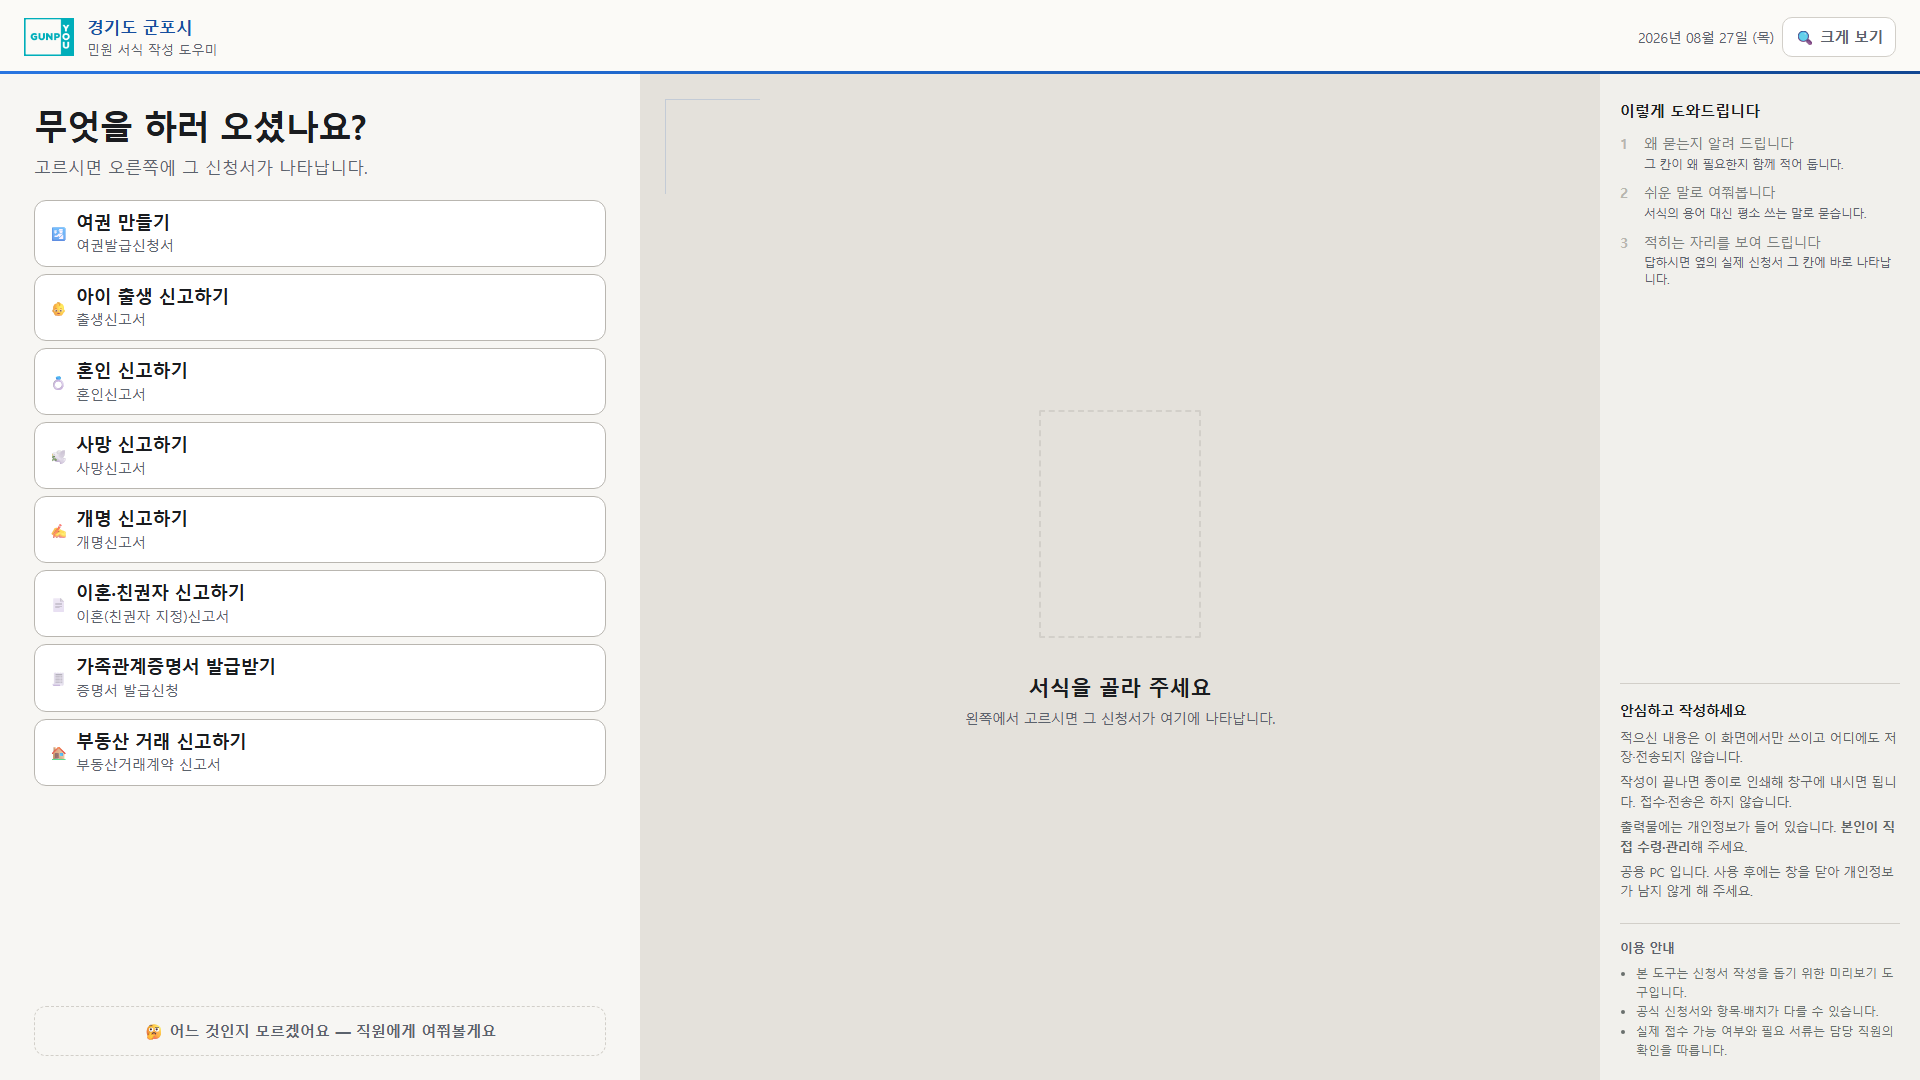
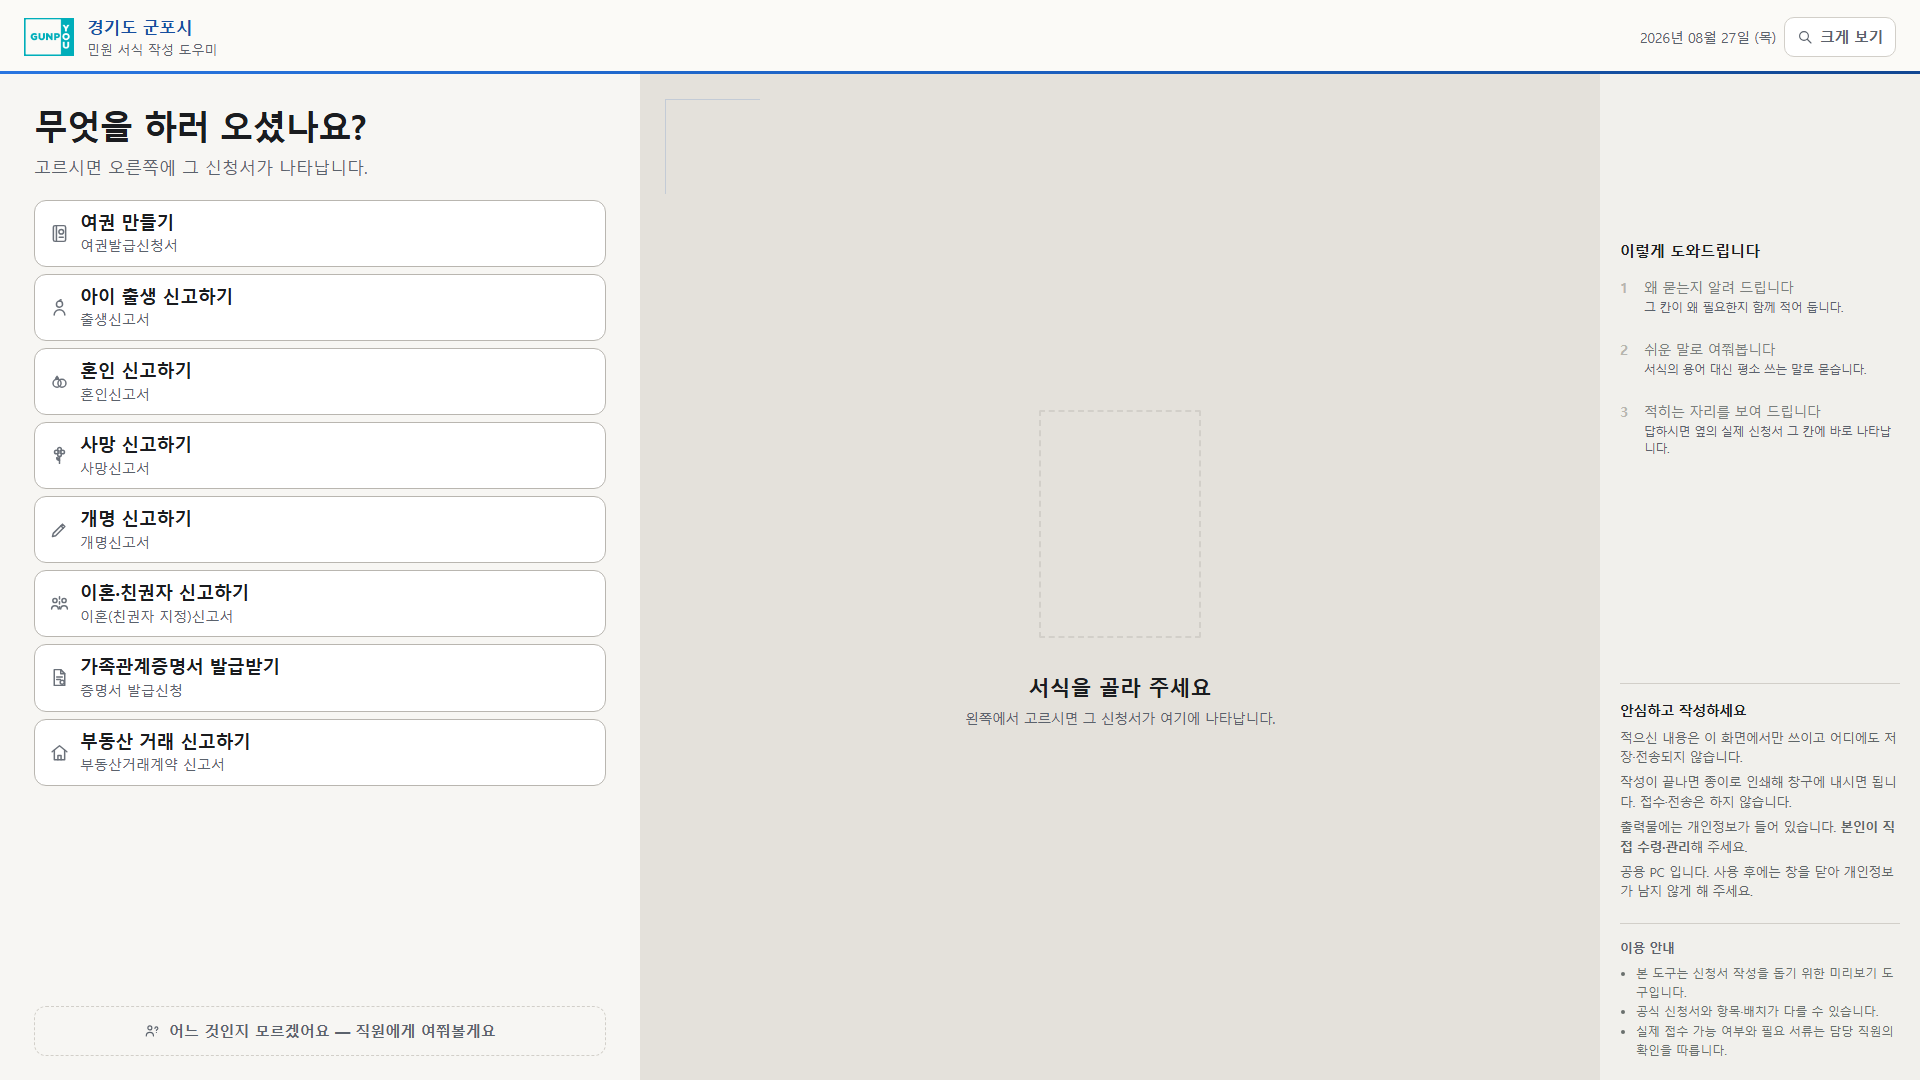
docs: 결정 ⑯ 아이콘 신설 · ③에 「그 뒤에 한 번 더」 · 동결본 갱신
- UX_DECISIONS ⑯ — 왜 이모지를 쓰지 않는가. 검토한 대안 넷(그대로 둠·아이콘 폰트·
  아이콘 없앰·서식별 색)과 버린 이유, 재검토 조건까지
- UX_DECISIONS ③ — 실루엣을 「채워지게」 만든 경위를 덧붙였다.
  ⛔ Generic Paper 를 되살린 것이 아님을 못 박았다
- docs/history/2026.08.27-Main재설계/ — After 4장을 **지금 화면으로 다시 동결**.
  어제 동결한 그림이 오늘 화면과 달라졌다(동결본은 갱신하지 않으면 곧 거짓이 된다)

확인: 코드 무변경 · 링크·앵커 전수 검사 통과

diff --git a/docs/UX_DECISIONS.md b/docs/UX_DECISIONS.md
@@ -42,6 +42,7 @@
 | [⑬](#d13) | 화면 키보드를 쓰지 않는다 | 구현됨 |
 | [⑭](#d14) | 개인정보는 구조와 동작으로 · **못 하는 것은 못 한다고 적는다** | 구현됨 |
 | [⑮](#d15) | 카탈로그를 한 곳에 둔다 · 검색은 20종부터 | 구현됨 |
+| [⑯](#d16) | 아이콘은 **이모지가 아니라 단색 선 아이콘 한 벌** | 구현됨 |
 
 ---
 
@@ -162,8 +163,8 @@
 | 언제 | 종이 |
 |---|---|
 | 아무것도 안 고름 | 빈 윤곽 + 「서식을 골라 주세요」 |
-| **시연 중** | **실루엣** — 서식 이름 + 항목 줄. 줄이 하나씩 그어진다 |
-| **hover · 키보드 포커스** | **실루엣** — 정지. 줄은 비어 있다 |
+| **시연 중** | **실루엣** — 서식 이름 + **그 서식이 묻는 항목**. 값이 한 줄씩 채워진다 |
+| **hover · 키보드 포커스** | **실루엣** — 정지. 항목만 서 있고 값은 비어 있다 |
 | **고름**(카드 펼침) | **실제 서식**, 흰 베일 한 겹으로 살짝 흐리게 |
 | **작성(Writing)** | 실제 서식, 또렷 |
 
@@ -179,6 +180,22 @@
 - 실루엣이 「고장난 화면」으로 읽힌다는 관찰이 있을 때
 - 시민이 hover 단계에서 이미 서식 내용을 확인하고 싶어 한다는 관찰이 있을 때
 - 모션·시각 값이 확정되어(외부 검토 중) 베일 농도·전환 시간이 바뀔 때
+
+### 그 뒤에 한 번 더 — 실루엣이 **채워지게** 했다 (2026.08.27)
+
+처음 만든 실루엣은 **추상적인 줄**만 그어졌습니다. 조용하기는 했지만 「여기서 무엇을
+할 수 있는가」를 말하지 못했고, 지나가는 사람이 멈춰 설 이유가 없었습니다.
+
+지금은 **그 서식이 실제로 묻는 항목**이 왼쪽에 서고, 오른쪽 칸에 **값이 한 줄씩** 채워집니다.
+이 화면의 한 문장이 눈앞에서 일어납니다 — **「질문에 답하면, 신청서가 완성됩니다.」**
+
+- ⚠ 값은 **전부 가상 인물**이고 종이 아래에 **「작성 예시입니다」**라고 적습니다.
+  앞사람 개인정보가 남아 있는 것처럼 보이면 이 제품의 가장 큰 강점이 그 자리에서 무너집니다.
+- ⚠ 주민등록번호 뒷자리는 **가상값이라도 가립니다**(`900101-●●●●●●●`).
+  늘 켜져 있는 화면에 숫자 13자리가 통째로 떠 있는 그림 자체를 만들지 않습니다.
+- ⚠ 한 카드에 머무는 시간을 **1.8초 → 2.8초**로 늘렸습니다. 읽을 것이 생겼기 때문입니다.
+- ⛔ 폐기한 **Generic Paper**(가상의 ○○○신청서)를 되살린 것이 아닙니다. 이것은 **실제 8종
+  각각의 항목**이고, 종이는 여전히 실루엣입니다(실제 서식 그림은 「고른 것」에만).
 
 > ⚠ 「Main 에서 hover 하면 **실제 신청서 Preview** 가 뜬다」는 것이 **2026.08.25 까지의
 > 설계 방향**이었습니다. 위 이유로 2026.08.27 에 정정됐습니다.
@@ -644,3 +661,46 @@ href                           그 서식 HTML
 - 8종 서식 쪽에서도 카탈로그를 읽어야 할 일이 생길 때 → 그때 복제 방식을 다시 검토합니다.
 
 > 근거 · `index.html` `<!--FORM-CATALOG v1-->` · 구조동결 §10
+
+---
+
+<a id="d16"></a>
+
+## ⑯ 아이콘은 이모지가 아니라 단색 선 아이콘 한 벌
+
+**[문제/배경]**
+서식 카드 8장과 상단 바 단추의 아이콘이 **전부 이모지**였습니다(🛂 👶 💍 🕊 ✍ 📄 🧾 🏠 🔍 🤔).
+아이콘 폰트·SVG 세트를 받아 올 수 없는 **오프라인** 환경이라 그렇게 시작했습니다.
+
+**[검토한 대안]**
+
+| 안 | 왜 버렸나 |
+|---|---|
+| 이모지를 그대로 둔다 | ① OS·글꼴에 따라 **모양이 달라진다** — 배포본 하나를 여러 기관이 쓰는데 화면이 갈립니다<br>② **여러 색을 쓴다** — 목록 8장에 8가지 색이 박혀 있었습니다 |
+| 아이콘 폰트(Material·Font Awesome 등) | 설치·CDN 이 필요합니다. **오프라인에서 못 씁니다** |
+| 아이콘을 아예 없앤다 | 목록을 훑을 때 형태가 주는 단서를 잃습니다. 고령자에게 글자만 있는 목록은 더 어렵습니다 |
+| 서식 종류별로 색을 달리한 아이콘 | 대표색이 기관마다 바뀌는데 8가지 색을 따로 두면 **색 체계가 두 벌**이 됩니다 |
+
+**[최종 결정]**
+**인라인 SVG 선 아이콘 한 벌**을 코드 안에 직접 둡니다.
+
+- **같은 문법** — 24 격자 · 굵기 1.7 · 둥근 끝. 하나만 달라도 한 벌로 안 보입니다
+- **`currentColor`** — 평소에는 **잉크색**(무채색)을 따르고, hover·포커스·**고른 카드**에서만
+  대표색이 됩니다. 그때는 색이 **「골라짐」이라는 뜻**을 가집니다
+- 카탈로그의 `icon`(이모지)은 **대비책으로 남겨** 둡니다 — 아이콘이 없는 서식이 생기면 그것으로 물러납니다
+
+**[결정 이유]**
+철학 §15 는 **색마다 하나의 역할**을 주고 §1 은 장식 목적의 여러 색을 금합니다.
+이모지는 그 두 가지를 동시에 어깁니다 — 게다가 같은 배포본이 기관마다 다르게 보입니다.
+단색 선 아이콘은 **오프라인 제약을 지키면서** 색 체계를 하나로 유지합니다.
+
+> ⚠ **사망·이혼은 감정이 실리는 민원입니다.** 상징을 세게 쓰지 않았습니다 —
+> 십자가·비둘기·깨진 하트 대신 **국화 한 송이**와 **담담한 두 사람**으로 두었습니다.
+
+**[향후 재검토 조건]**
+- 외부 시각 검토에서 **더 나은 한 벌**을 받았을 때 → 통째로 갈아 끼웁니다.
+  ⛔ 한두 개만 바꾸지 마십시오. 한 벌이 아니게 됩니다
+- 서식이 늘어 아이콘이 20개를 넘을 때 → 그때는 세트를 파일로 분리할지 다시 봅니다
+
+> 근거 · `index.html` 의 `ICONS` · `passport-helper-v1.html` 의 `.btn-ic` ·
+> `CHANGELOG.md` 2026.08.27

diff --git a/docs/history/2026.08.27-Main재설계/caption.md b/docs/history/2026.08.27-Main재설계/caption.md
@@ -4,7 +4,7 @@
 |---|---|
 | **날짜** | 2026.08.25(재설계) · 2026.08.27(종이 네 단) |
 | **상태** | 정식 서비스 준비 · 시범운영 중 |
-| **무엇이 바뀌었나** | 첫 화면을 **행정 분류 카드 격자**에서 **세 영역(ASK/PAPER/RAIL)**으로. 대기 화면·Start 화면을 만들지 않고 **첫 화면 하나**가 시연·선택·사전안내를 모두 맡는다 |
+| **무엇이 바뀌었나** | 첫 화면을 **행정 분류 카드 격자**에서 **세 영역(ASK/PAPER/RAIL)**으로. 대기 화면·Start 화면을 만들지 않고 **첫 화면 하나**가 시연·선택·사전안내를 모두 맡는다. 아이콘을 이모지에서 **단색 선 아이콘 한 벌**로 |
 | **왜 바뀌었나** | 첫 화면과 다음 화면(여권)이 **다른 프로그램처럼** 보였고, 시민이 「가족관계등록 신고」와 「증명서 발급」의 차이를 알아야 첫 걸음을 뗄 수 있었다 → [UX_DECISIONS](../../UX_DECISIONS.md) ①②③④⑨ |
 
 > ⚠ **이 폴더의 그림은 동결본입니다.** `tools/design-shots.py` 가 건드리지 않습니다.
@@ -18,7 +18,7 @@
 |---|---|
 | `01-before-첫화면.png` | **재설계 이전.** 행정 분류 4구역 · 「이용 가능」 배지 · `max-width:1080px` 가운데 정렬 · 빨간 띠 개인정보 안내<br>⚙ `git show 9c8612a:"docs/디자인검토/shots/hub-01-첫화면.png"` 에서 꺼냈습니다 |
 | `02-after-첫화면.png` | **지금.** 세 영역 · 시민의 말 카드 8장 · **아무것도 골라져 있지 않고** 종이 자리에 「서식을 골라 주세요」 |
-| `03-after-시연.png` | **대기 시연.** 카드를 하나씩 짚으며 종이의 **실루엣**에 줄을 그어 간다. ⛔ 실제 서식이 아니다 |
+| `03-after-시연.png` | **대기 시연.** 카드를 하나씩 짚으며 종이의 **실루엣**을 한 줄씩 채워 간다 — 항목 이름과 값이 눈앞에서 들어찬다. ⛔ 실제 서식 그림이 아니고, 값은 전부 가상 인물이다 |
 | `04-after-카드펼침.png` | 카드를 눌러 **그 자리에서 펼쳐진** 상태. 설명·준비물·[작성 시작]. 이때 비로소 **실제 서식**이 오되 흰 베일로 살짝 흐리다 |
 | `05-after-첫화면-세로.png` | 같은 화면, 세로형 키오스크(1080×1920) |
 
@@ -57,6 +57,8 @@ hero      "어떤 서식을 작성하시나요?"
 | 행정 분류를 걷어내고 **시민의 말 카드**를 평평하게 | ① |
 | 첫 화면도 **세 영역**으로 — 가운데는 **종이** | ② |
 | **선명도가 곧 확정의 단계** — 실제 서식은 고른 것에만 | ③ |
+| 시연 중 종이가 **실제로 채워진다** — 「질문에 답하면 신청서가 완성됩니다」 | ③ |
+| 아이콘을 **단색 선 아이콘 한 벌**로 — 이모지는 OS마다 다르고 여러 색을 쓴다 | ⑯ |
 | 별도 Start 화면 대신 **카드를 그 자리에서 펼친다** | ④ |
 | 별도 대기 화면 대신 **첫 화면이 스스로 시연한다** | ⑨ |
 
